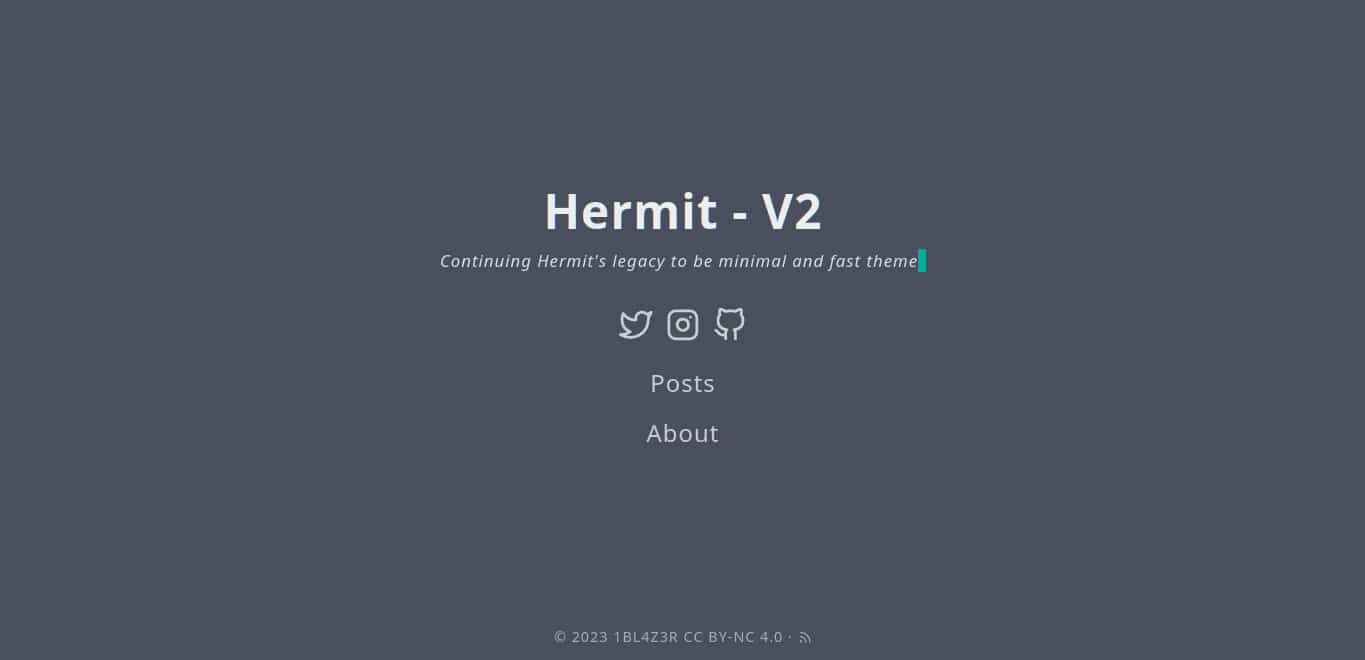
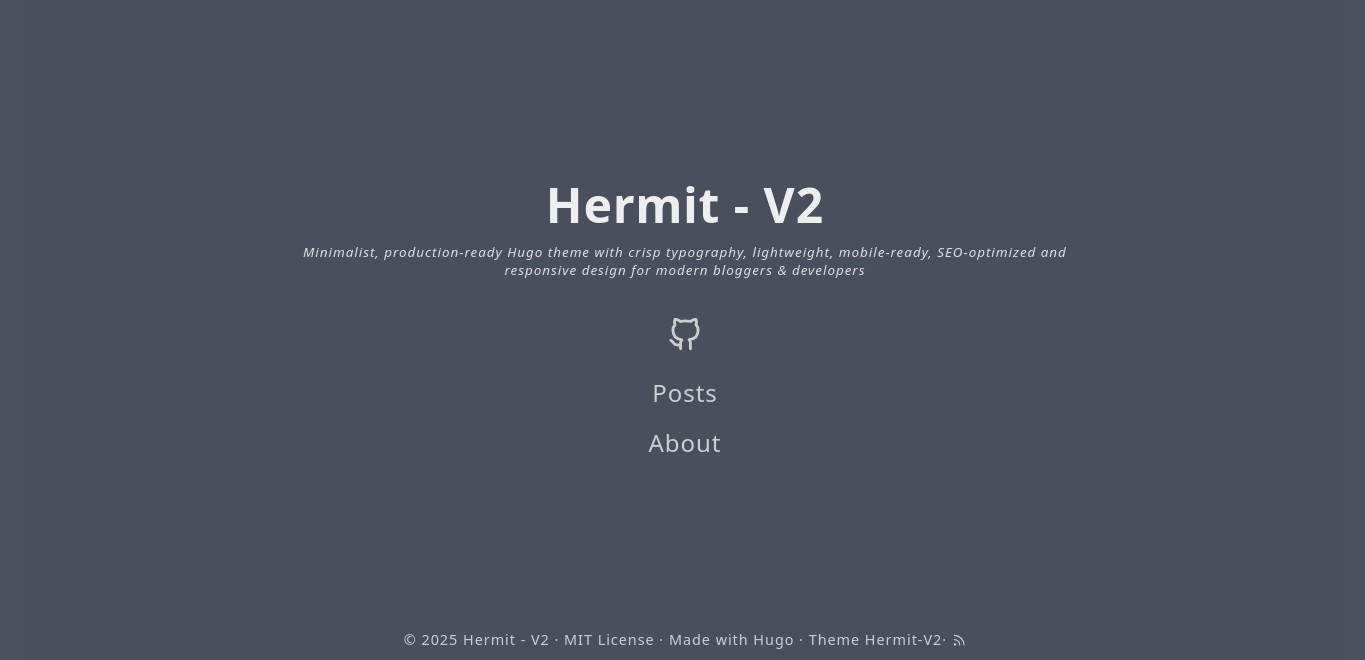
Updated theme images

diff --git a/README.md b/README.md
@@ -12,7 +12,7 @@ This demo also acts as an documentation for the theme, utilizing its powerful fe
 
 The source for the site is located in [Staging Branch](https://github.com/1bl4z3r/hermit-V2/tree/staging)
 
-![](https://raw.githubusercontent.com/1bl4z3r/hermit-V2/staging/images/screenshot.gif)
+![](https://raw.githubusercontent.com/1bl4z3r/hermit-V2/staging/images/homepage.gif)
 
 ### Initial Information
 
